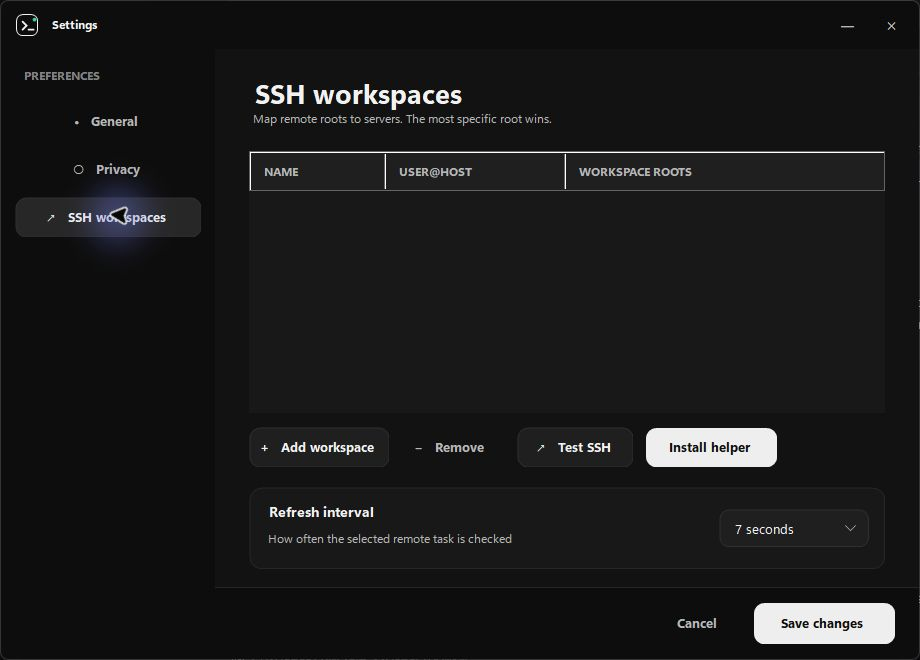
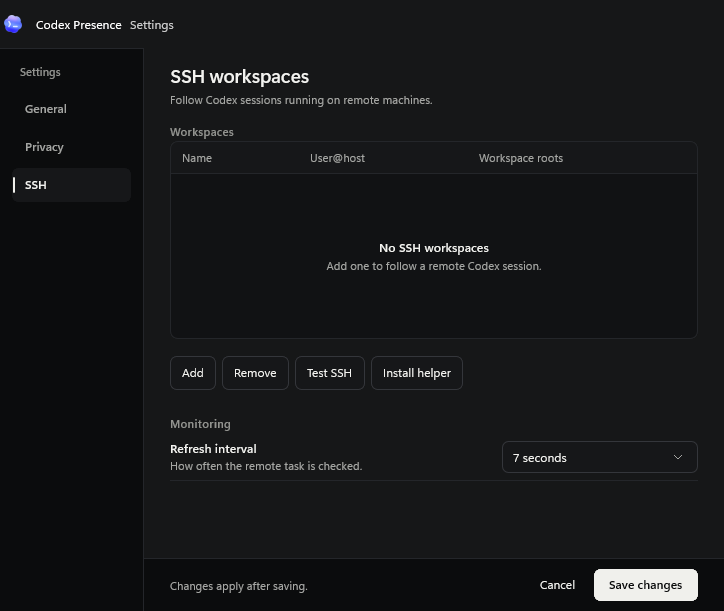
docs: showcase version 2.5 with native Windows captures

diff --git a/README.md b/README.md
@@ -1,7 +1,5 @@
 <div align="center">
 
-![Codex Presence hero](assets/hero.svg)
-
 # Codex Presence
 
 **A local-first WinUI 3 Discord Rich Presence companion for Codex Desktop on Windows.**
@@ -16,6 +14,8 @@
 </div>
 
 Codex Presence follows the task selected in ChatGPT/Codex Desktop, detects its project and most recently edited file, and mirrors that activity to Discord. Background tasks cannot silently replace the card, and switching projects never resets the whole-app timer.
+
+![Codex Presence 2.5 dashboard: published activity, current file, and session details](assets/dashboard.png)
 
 ## Why this one
 
@@ -50,8 +50,6 @@ The shared Discord Application ID is `1526968377048956938`. Friends do not need 
 > Community builds are currently unsigned and can trigger Windows SmartScreen. The release workflow is ready for Authenticode signing when a certificate is configured.
 
 ## See it in action
-
-![Codex Presence 2.5 dashboard: published activity, current file, and session details](assets/dashboard.png)
 
 <div align="center">
   <img src="assets/demo.gif" alt="Native dashboard switching between published, paused, and offline states, followed by General, Privacy, and SSH settings" width="760">
